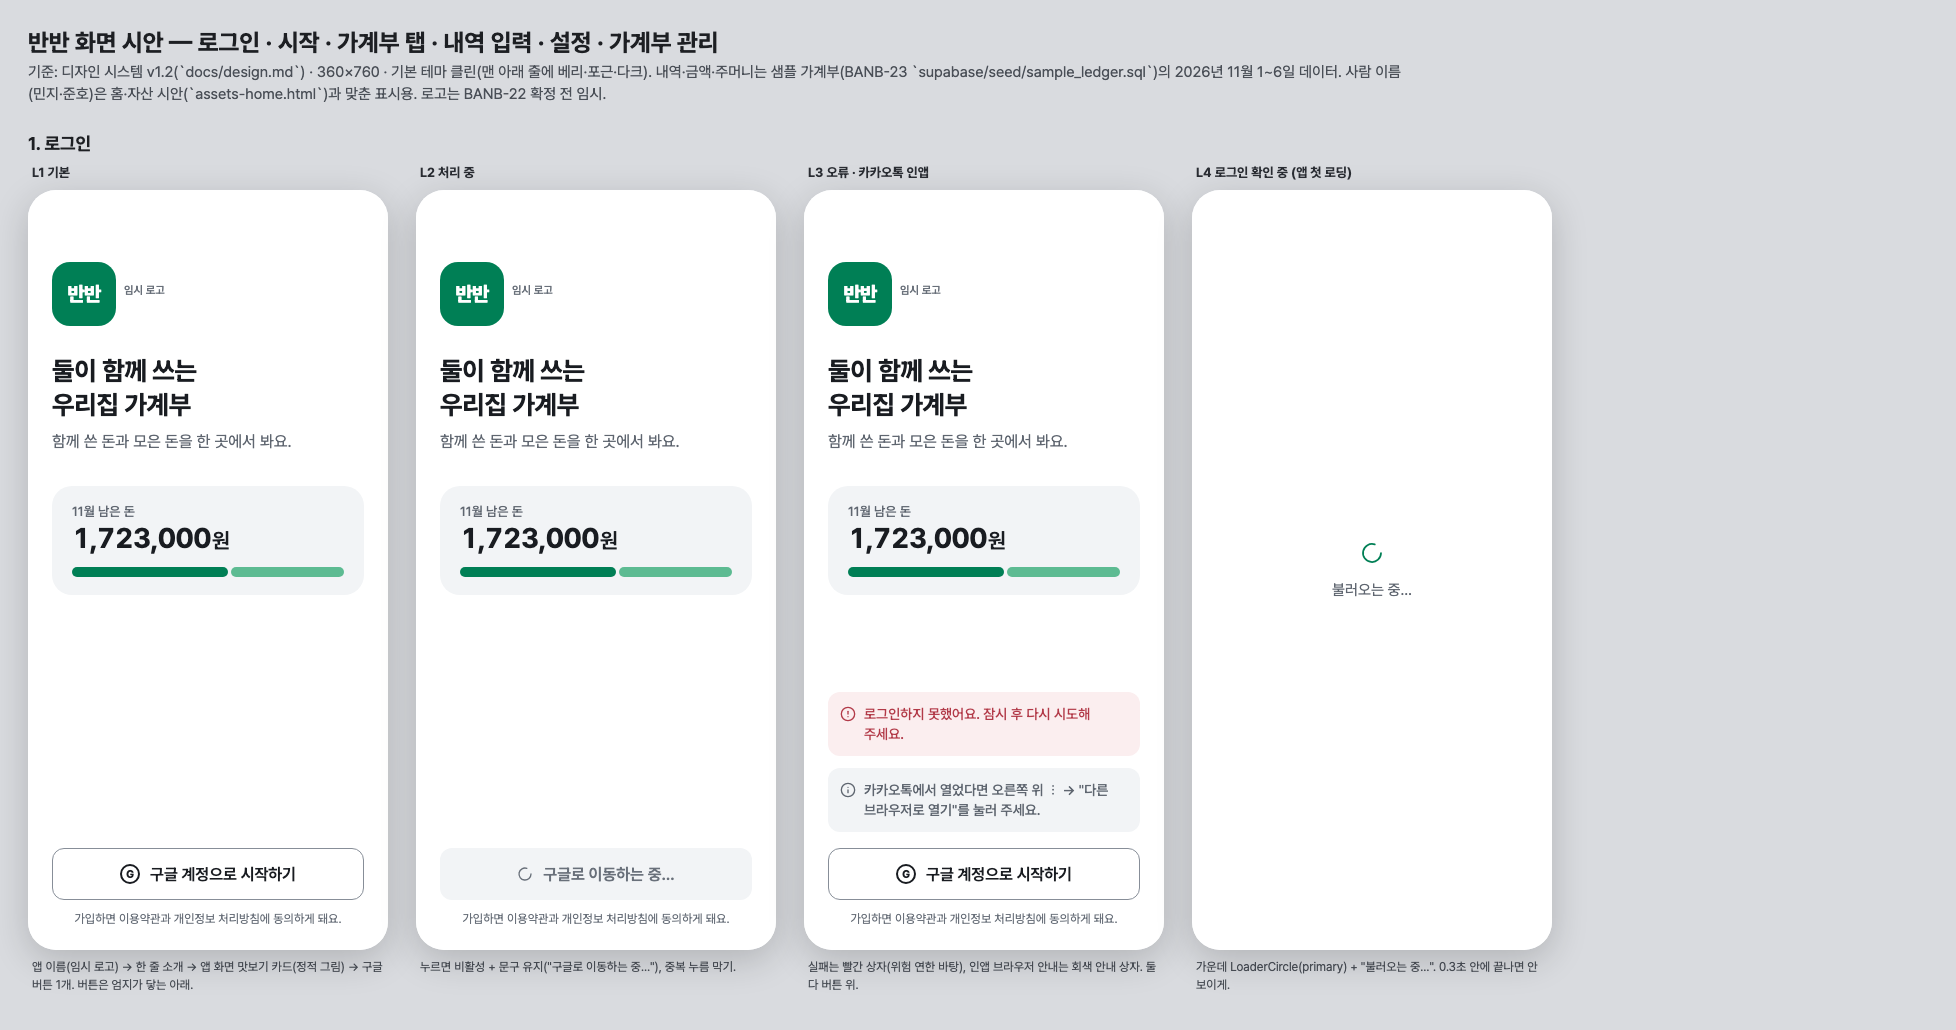
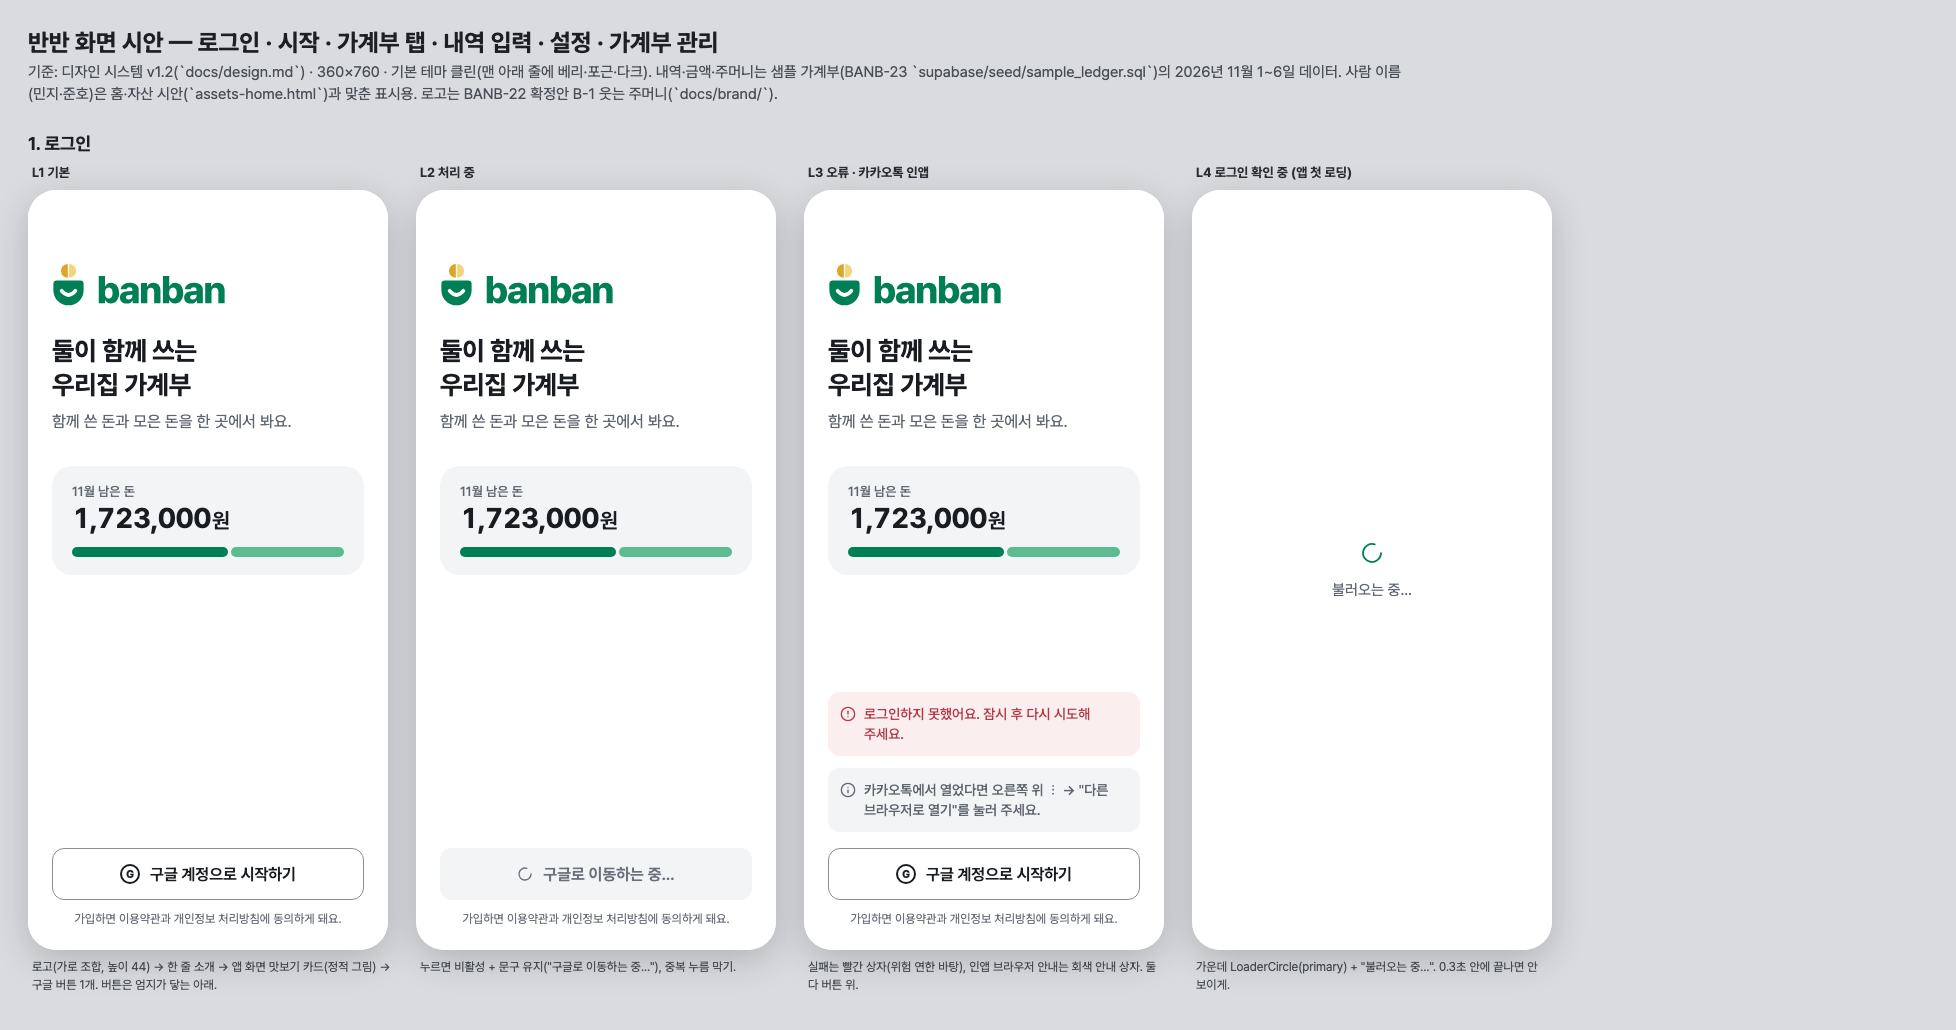
BANB-19 화면 시안: 임시 로고 → BANB-22 확정 로고 B-1 웃는 주머니 (로그인·시작 화면)

diff --git a/docs/screens/screens.html b/docs/screens/screens.html
@@ -175,8 +175,10 @@ svg.lucide { width:20px; height:20px; stroke-width:2; flex:none; }
 
 /* 로그인·시작 */
 .hero-wrap { position:absolute; inset:0; display:flex; flex-direction:column; padding:72px 24px 24px; background:var(--color-surface); }
-.logo { width:64px; height:64px; border-radius:18px; background:var(--color-primary); color:var(--color-on-primary); display:flex; align-items:center; justify-content:center; font-weight:800; font-size:20px; letter-spacing:-0.04em; position:relative; }
-.logo::after { content:'임시 로고'; position:absolute; left:72px; top:22px; font-size:11px; font-weight:600; color:var(--color-text-weak); letter-spacing:0; white-space:nowrap; }
+.logo { height:44px; display:flex; align-items:center; }
+.logo svg { display:block; height:44px; width:auto; }
+.lg-p { fill:#007F55; } .lg-w { fill:#007F55; } .lg-c { fill:#E0A526; } .lg-d { fill:#F6D27A; }
+[data-mode="dark"] .lg-p { fill:#3FC08A; } [data-mode="dark"] .lg-w { fill:#F2F4F6; } [data-mode="dark"] .lg-c { fill:#F2C14E; } [data-mode="dark"] .lg-d { fill:#FBE3A4; }
 .big-t { font-size:26px; line-height:34px; font-weight:700; letter-spacing:-0.01em; margin-top:28px !important; }
 .lead-t { font-size:16px; line-height:24px; color:var(--color-text-sub); margin-top:8px !important; }
 .peek { margin-top:32px; border-radius:20px; background:var(--color-bg); padding:18px 20px; }
@@ -264,7 +266,7 @@ svg.lucide { width:20px; height:20px; stroke-width:2; flex:none; }
 .dim { color:var(--color-text-weak); }
 </style></head><body>
 <h1 class="board-t">반반 화면 시안 — 로그인 · 시작 · 가계부 탭 · 내역 입력 · 설정 · 가계부 관리</h1>
-<p class="lead">기준: 디자인 시스템 v1.2(`docs/design.md`) · 360×760 · 기본 테마 클린(맨 아래 줄에 베리·포근·다크). 내역·금액·주머니는 샘플 가계부(BANB-23 `supabase/seed/sample_ledger.sql`)의 2026년 11월 1~6일 데이터. 사람 이름(민지·준호)은 홈·자산 시안(`assets-home.html`)과 맞춘 표시용. 로고는 BANB-22 확정 전 임시.</p>
+<p class="lead">기준: 디자인 시스템 v1.2(`docs/design.md`) · 360×760 · 기본 테마 클린(맨 아래 줄에 베리·포근·다크). 내역·금액·주머니는 샘플 가계부(BANB-23 `supabase/seed/sample_ledger.sql`)의 2026년 11월 1~6일 데이터. 사람 이름(민지·준호)은 홈·자산 시안(`assets-home.html`)과 맞춘 표시용. 로고는 BANB-22 확정안 B-1 웃는 주머니(`docs/brand/`).</p>
 <div id="rows"></div>
 <script>
 /* ── 도우미 ── */
@@ -326,14 +328,15 @@ const calCard = (sel = 5) => {
 
 /* 1. 로그인 */
 const peek = `<div class="peek"><p class="k">11월 남은 돈</p><p class="a num">1,723,000<span class="u">원</span></p><div class="bar"><i style="width:58%;background:var(--color-member-1)"></i><i style="width:42%;background:var(--color-member-2)"></i></div></div>`;
-const login = (state) => phone(`<div class="hero-wrap"><div class="logo">반반</div><p class="big-t">둘이 함께 쓰는<br>우리집 가계부</p><p class="lead-t">함께 쓴 돈과 모은 돈을 한 곳에서 봐요.</p>${peek}<div style="flex:1"></div>
+let _lg = 0; const LOGO_SVG = (n) => `<svg viewBox="8 0 253.1 64" height="44" role="img" aria-label="반반 banban"><mask id="lgm${n}" maskUnits="userSpaceOnUse" x="0" y="0" width="64" height="64"><rect width="64" height="64" fill="#fff"/><path d="M22 42Q32 54 42 42" fill="none" stroke="#000" stroke-width="5.5" stroke-linecap="round"/></mask><path d="M31 3A10 10 0 0 0 31 23Z" class="lg-c"/><path d="M33 3A10 10 0 0 1 33 23Z" class="lg-d"/><path d="M15 27H49Q54 27 54 32V41A22 22 0 0 1 10 41V32Q10 27 15 27Z" class="lg-p" mask="url(#lgm${n})"/><g transform="translate(73.003 60) scale(0.027248)"><path d="M110 0H444V-176H454C498 -78 594 16 760 16C1002 16 1196 -174 1196 -542C1196 -924 990 -1100 762 -1100C588 -1100 496 -998 454 -900H446V-1448H110ZM440 -544C440 -724 514 -836 646 -836C778 -836 850 -720 850 -544C850 -364 776 -248 646 -248C516 -248 440 -364 440 -544ZM1242.08 -302C1242.08 -86 1392.08 20 1600.08 20C1752.08 20 1856.08 -42 1916.08 -152H1924.08V0H2242.08V-738C2242.08 -972 2032.08 -1100 1764.08 -1100C1460.08 -1100 1296.08 -942 1282.08 -750H1596.08C1610.08 -822 1666.08 -860 1756.08 -860C1848.08 -860 1904.08 -818 1904.08 -742V-654C1858.08 -652 1722.08 -647 1644.08 -642C1428.08 -628 1242.08 -542 1242.08 -302ZM1562.08 -316C1562.08 -388 1616.08 -434 1700.08 -444C1750.08 -449 1865.08 -454 1906.08 -456V-386C1908.08 -278 1816.08 -204 1702.08 -204C1620.08 -204 1562.08 -242 1562.08 -316ZM2704.16 -622C2704.16 -748 2778.16 -824 2890.16 -824C3002.16 -824 3068.16 -750 3068.16 -628V0H3404.16V-692C3406.16 -938 3256.16 -1100 3028.16 -1100C2868.16 -1100 2748.16 -1020 2698.16 -888H2686.16V-1086H2366.16V0H2704.16ZM3536.24 0H3870.24V-176H3880.24C3924.24 -78 4020.24 16 4186.24 16C4428.24 16 4622.24 -174 4622.24 -542C4622.24 -924 4416.24 -1100 4188.24 -1100C4014.24 -1100 3922.24 -998 3880.24 -900H3872.24V-1448H3536.24ZM3866.24 -544C3866.24 -724 3940.24 -836 4072.24 -836C4204.24 -836 4276.24 -720 4276.24 -544C4276.24 -364 4202.24 -248 4072.24 -248C3942.24 -248 3866.24 -364 3866.24 -544ZM4668.32 -302C4668.32 -86 4818.32 20 5026.32 20C5178.32 20 5282.32 -42 5342.32 -152H5350.32V0H5668.32V-738C5668.32 -972 5458.32 -1100 5190.32 -1100C4886.32 -1100 4722.32 -942 4708.32 -750H5022.32C5036.32 -822 5092.32 -860 5182.32 -860C5274.32 -860 5330.32 -818 5330.32 -742V-654C5284.32 -652 5148.32 -647 5070.32 -642C4854.32 -628 4668.32 -542 4668.32 -302ZM4988.32 -316C4988.32 -388 5042.32 -434 5126.32 -444C5176.32 -449 5291.32 -454 5332.32 -456V-386C5334.32 -278 5242.32 -204 5128.32 -204C5046.32 -204 4988.32 -242 4988.32 -316ZM6130.4 -622C6130.4 -748 6204.4 -824 6316.4 -824C6428.4 -824 6494.4 -750 6494.4 -628V0H6830.4V-692C6832.4 -938 6682.4 -1100 6454.4 -1100C6294.4 -1100 6174.4 -1020 6124.4 -888H6112.4V-1086H5792.4V0H6130.4Z" class="lg-w"/></g></svg>`; /* BANB-22 확정 로고 B-1 (docs/brand/banban-lockup-*.svg, 색은 테마와 상관없이 고정) */
+const login = (state) => phone(`<div class="hero-wrap"><div class="logo">${LOGO_SVG(++_lg)}</div><p class="big-t">둘이 함께 쓰는<br>우리집 가계부</p><p class="lead-t">함께 쓴 돈과 모은 돈을 한 곳에서 봐요.</p>${peek}<div style="flex:1"></div>
   ${state === 'err' ? `<div class="notice bad" style="margin-bottom:12px">${I('circle-alert')}<span>로그인하지 못했어요. 잠시 후 다시 시도해 주세요.</span></div><div class="notice" style="margin-bottom:16px">${I('info')}<span>카카오톡에서 열었다면 오른쪽 위 ⋮ → "다른 브라우저로 열기"를 눌러 주세요.</span></div>` : ''}
   ${state === 'busy' ? `<div class="gbtn btn off" style="border-color:transparent">${I('loader-circle','s16')}구글로 이동하는 중…</div>` : `<div class="gbtn"><span class="g">G</span>구글 계정으로 시작하기</div>`}
   <p style="text-align:center;font-size:12px;color:var(--color-text-weak);margin-top:12px">가입하면 이용약관과 개인정보 처리방침에 동의하게 돼요.</p></div>`);
 const loading = phone(`<div class="hero-wrap" style="align-items:center;justify-content:center;padding:0"><span style="color:var(--color-primary)">${I('loader-circle','s24')}</span><p style="margin-top:12px;color:var(--color-text-sub)">불러오는 중…</p></div>`);
 
 /* 2. 시작 */
-const start = phone(`<div class="hero-wrap" style="padding-top:56px"><div class="logo">반반</div><p class="big-t">가계부를 시작해 볼까요?</p><p class="lead-t">새로 만들거나, 받은 초대코드로 함께해요.</p>
+const start = phone(`<div class="hero-wrap" style="padding-top:56px"><div class="logo">${LOGO_SVG(++_lg)}</div><p class="big-t">가계부를 시작해 볼까요?</p><p class="lead-t">새로 만들거나, 받은 초대코드로 함께해요.</p>
   <div style="display:flex;flex-direction:column;gap:12px;margin-top:28px"><div class="choice"><span class="ibx">${I('book-plus')}</span><div><b>새 가계부 만들기</b><span>이름만 정하면 바로 시작</span></div>${I('chevron-right')}</div>
   <div class="choice"><span class="ibx">${I('ticket')}</span><div><b>초대코드로 참여</b><span>받은 8자리 코드나 링크로</span></div>${I('chevron-right')}</div></div>
   <div style="flex:1"></div><p style="text-align:center;font-size:14px;color:var(--color-text-sub)">kicmi032@gmail.com · <span style="color:var(--color-primary);font-weight:600">로그아웃</span></p></div>`);
@@ -462,7 +465,7 @@ const manageErr = phone(`${sub('가계부 관리')}<div class="scroll full"><div
 /* ── 배치 ── */
 const ROWS = [
   ['1. 로그인', [
-    ['L1 기본', login(), '앱 이름(임시 로고) → 한 줄 소개 → 앱 화면 맛보기 카드(정적 그림) → 구글 버튼 1개. 버튼은 엄지가 닿는 아래.'],
+    ['L1 기본', login(), '로고(가로 조합, 높이 44) → 한 줄 소개 → 앱 화면 맛보기 카드(정적 그림) → 구글 버튼 1개. 버튼은 엄지가 닿는 아래.'],
     ['L2 처리 중', login('busy'), '누르면 비활성 + 문구 유지("구글로 이동하는 중…"), 중복 누름 막기.'],
     ['L3 오류 · 카카오톡 인앱', login('err'), '실패는 빨간 상자(위험 연한 바탕), 인앱 브라우저 안내는 회색 안내 상자. 둘 다 버튼 위.'],
     ['L4 로그인 확인 중 (앱 첫 로딩)', loading, '가운데 LoaderCircle(primary) + "불러오는 중…". 0.3초 안에 끝나면 안 보이게.'],

diff --git a/docs/screens/README.md b/docs/screens/README.md
@@ -11,7 +11,7 @@
 
 - `screens.html` 주소 끝에 `?r=0`~`?r=8` 또는 `?r=themes`를 붙이면 그 줄만 보인다.
 - 시안의 내역·금액·주머니 값은 샘플 가계부(BANB-23 `supabase/seed/sample_ledger.sql`)의 2026년 11월 1~6일 데이터다. 사람 이름(민지·준호)은 홈·자산 시안과 맞춘 표시용 이름이다.
-- 로고는 BANB-22에서 확정 전이라 임시 로고(포인트 색 상자 + "반반")를 넣었다.
+- 로고는 BANB-22 확정안 **B-1 웃는 주머니**(가로 조합, 높이 44)를 넣었다. 원본·규칙은 `docs/brand/`. 로고 색은 테마와 상관없이 고정이고, 다크에서는 다크용 색.
 
 ### 커버리지
 
@@ -39,7 +39,7 @@
 
 **1. 로그인 (L1~L4)**
 - 바뀌는 점: 큰 제목 두 줄 아래에 앱 화면 맛보기 카드(정적 그림)를 넣고, 구글 버튼을 아래쪽에 고정했다. 문구는 "구글 계정으로 시작하기"로 바꾼다.
-- 주의: 맛보기 카드는 장식이다(`aria-hidden`, 실제 데이터 아님). 카카오톡 인앱 안내는 실패 상자와 따로 회색 안내 상자로 보여 준다. 임시 로고는 BANB-22 확정본으로 바꾼다.
+- 주의: 맛보기 카드는 장식이다(`aria-hidden`, 실제 데이터 아님). 카카오톡 인앱 안내는 실패 상자와 따로 회색 안내 상자로 보여 준다. 로고는 BANB-22 확정본(B-1) 반영 완료.
 
 **2. 시작·만들기·초대코드 (S1~S5)**
 - 바뀌는 점: 가계부가 0개일 때 두 갈래 큰 카드를 보여 준다. 아이콘(BookPlus·Ticket)은 전환 시트의 "가계부 추가" 카드와 같게 맞췄다. 만들기와 참여는 각각 하위 화면이고, 아래 고정 버튼을 쓴다.
